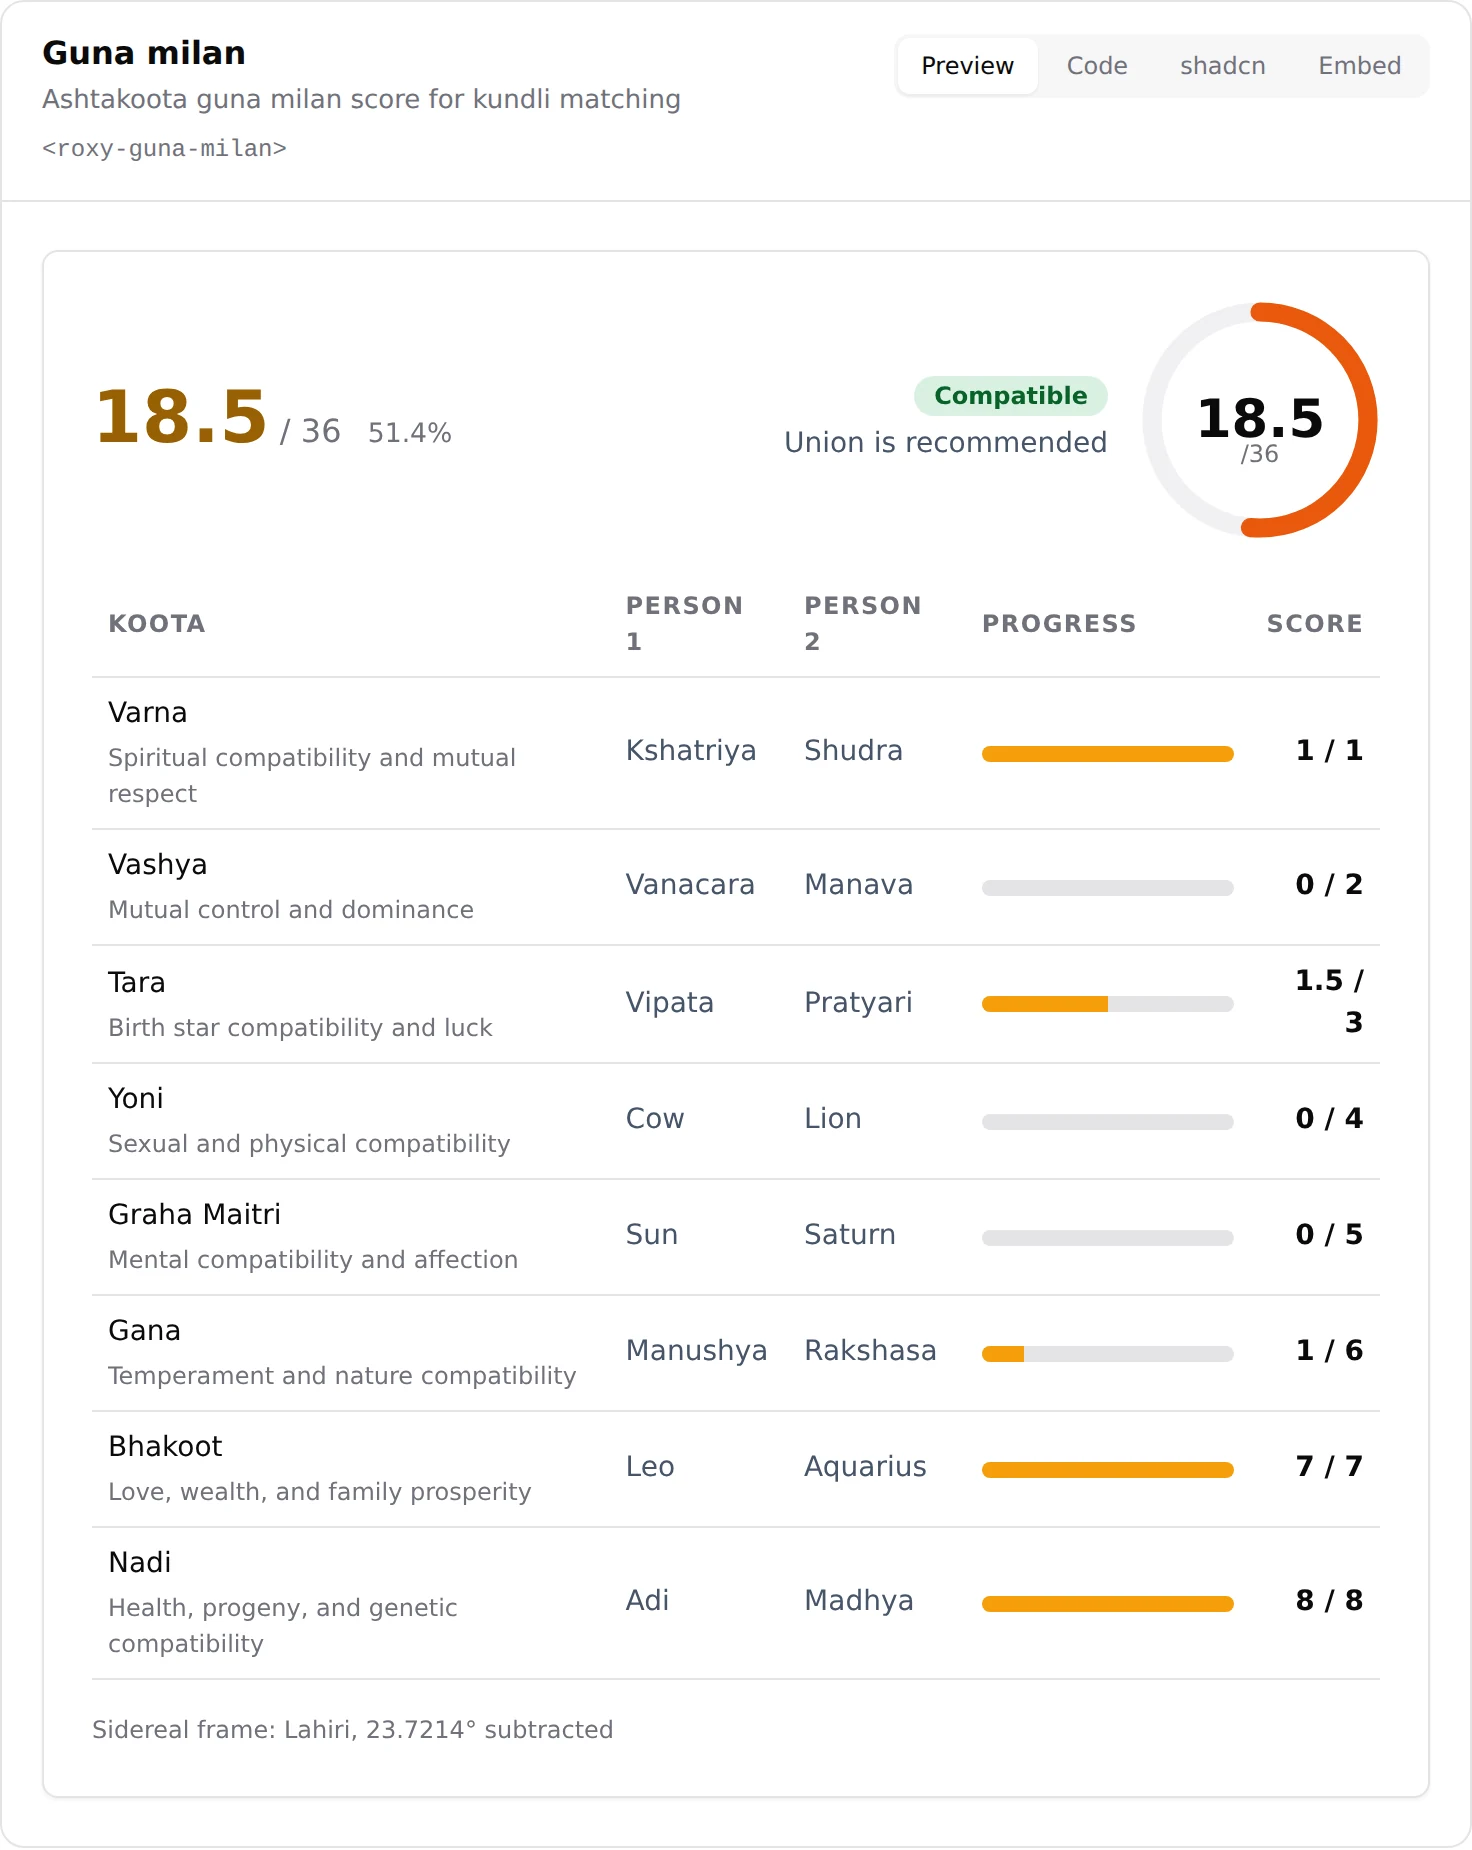
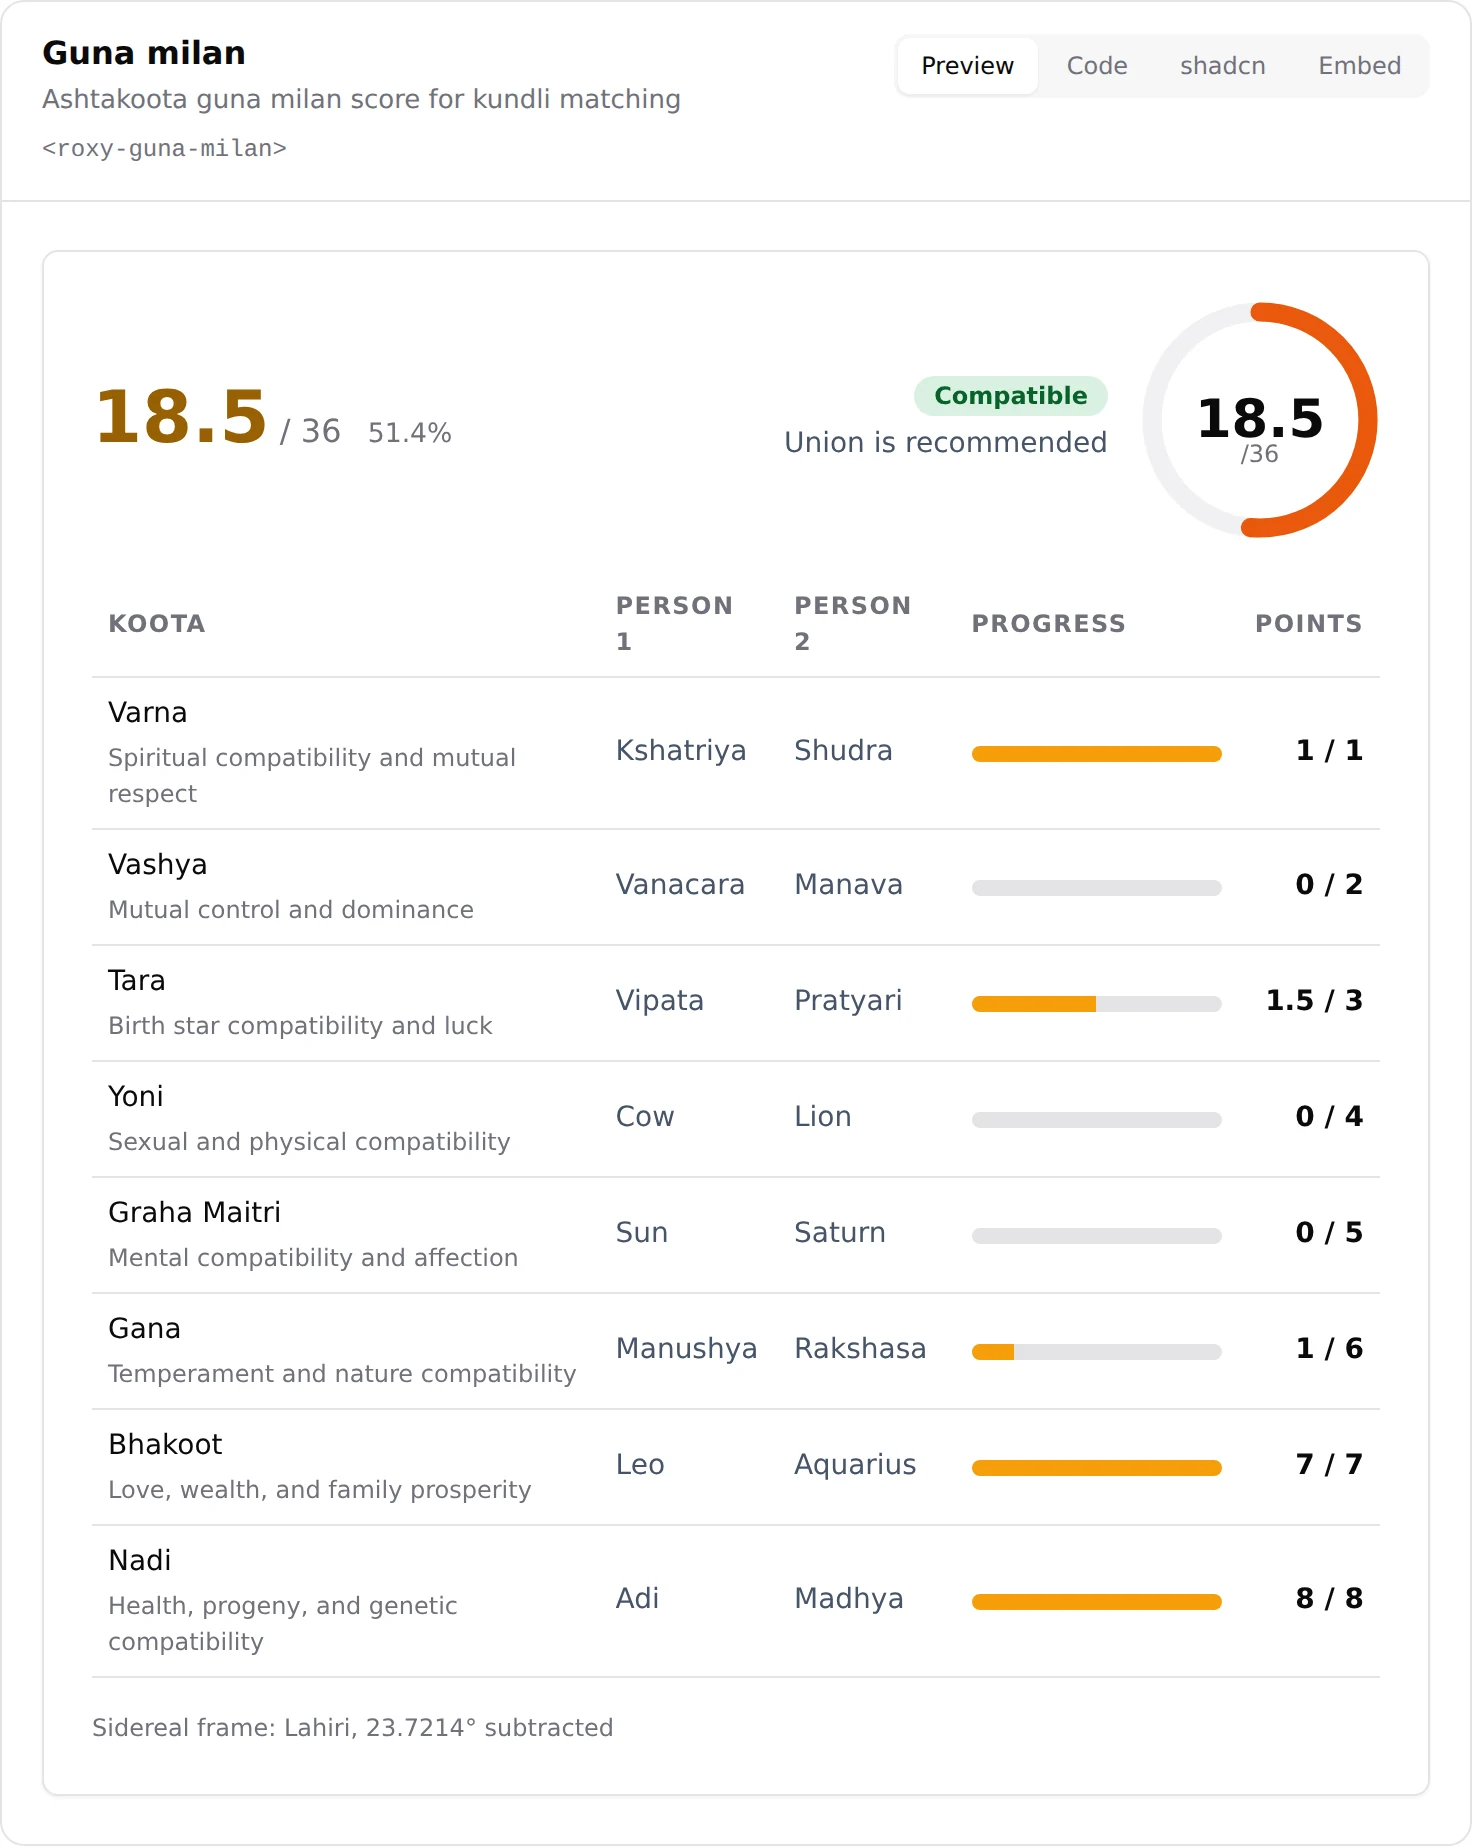
fix(kp-finance-card),i18n(score and points split,ru ruling planets,hi sookshma),docs(lessons,todo,ui-gaps): the time columns take Start and End, the weight goes through formatPercent, the window range through formatTimeRange and the retrograde flag is the mark with its accessible name; the Guna Mila

diff --git a/packages/ui/src/components/kp-finance-card.ts b/packages/ui/src/components/kp-finance-card.ts
@@ -9,7 +9,9 @@ import {
 	formatDateTime,
 	formatList,
 	formatNumber,
+	formatPercent,
 	formatTime,
+	formatTimeRange,
 } from '../utils/format.js';
 import { frameCaptionStyles, renderFrameCaption } from '../utils/frame.js';
 
@@ -410,7 +412,7 @@ export class RoxyKpFinanceCard extends RoxyDataElement<Finance> {
 		return html`<div class="block-head">
 				<h3>${this.t(LAYER_LABEL[key])}</h3>
 				<span class="evidence">
-					${this.t('Weight')} ${formatNumber(locale, layer.weight, 0)}% · ${this.t('Score')}
+					${this.t('Weight')} ${formatPercent(locale, layer.weight, 0)} · ${this.t('Score')}
 					${formatNumber(locale, layer.score, 1)}
 				</span>
 			</div>
@@ -451,8 +453,8 @@ export class RoxyKpFinanceCard extends RoxyDataElement<Finance> {
 				<tr>
 					<th scope="col">${this.t('Level')}</th>
 					<th scope="col">${this.t('Lord')}</th>
-					<th scope="col">${this.t('From')}</th>
-					<th scope="col">${this.t('To')}</th>
+					<th scope="col">${this.t('Start')}</th>
+					<th scope="col">${this.t('End')}</th>
 					<th scope="col">${this.t('Verdict')}</th>
 					<th scope="col">${this.t('Score')}</th>
 					<th scope="col">${this.t('Weight')}</th>
@@ -467,7 +469,7 @@ export class RoxyKpFinanceCard extends RoxyDataElement<Finance> {
 						<td>${formatDateTime(locale, r.endDate)}</td>
 						<td>${this.verdictChip(r.verdict)}</td>
 						<td class="num">${formatNumber(locale, r.score, 0)}</td>
-						<td class="num">${formatNumber(locale, r.weight, 0)}%</td>
+						<td class="num">${formatPercent(locale, r.weight, 0)}</td>
 					</tr>`,
 				)}
 			</tbody>
@@ -500,8 +502,8 @@ export class RoxyKpFinanceCard extends RoxyDataElement<Finance> {
 		return html`<table>
 			<thead>
 				<tr>
-					<th scope="col">${this.t('From')}</th>
-					<th scope="col">${this.t('To')}</th>
+					<th scope="col">${this.t('Start')}</th>
+					<th scope="col">${this.t('End')}</th>
 					<th scope="col">${this.t('Sub lord')}</th>
 					<th scope="col">${this.t('Verdict')}</th>
 					<th scope="col">${this.t('Score')}</th>
@@ -535,7 +537,7 @@ export class RoxyKpFinanceCard extends RoxyDataElement<Finance> {
 		const window = (w: WindowRow, kind: 'best' | 'worst') =>
 			html`<span class="window ${kind}">
 				<span>${this.glyphName(w.subLord)}</span>
-				<small>${formatTime(locale, w.from)} — ${formatTime(locale, w.to)}</small>
+				<small>${formatTimeRange(locale, { start: w.from, end: w.to })}</small>
 			</span>`;
 		return html`<section class="block" part="section windows">
 			<dl class="facts">
@@ -559,12 +561,17 @@ export class RoxyKpFinanceCard extends RoxyDataElement<Finance> {
 		</section>`;
 	}
 
-	/** A planet with its glyph in front, and the retrograde mark after it where the row says so. */
+	/**
+	 * A planet with its glyph in front, and the retrograde mark after it where the row says so.
+	 *
+	 * @remarks
+	 * The mark is the symbol the ephemeris and transit tables draw, with the catalogued word as its accessible name rather than printed: printed after a name, an adjective has to agree with that name in the languages that inflect it, and a symbol does not.
+	 */
 	private glyphName(name: string, retrograde = false) {
 		const glyph = planetGlyph(name);
 		return html`${glyph ? html`<span class="glyph" aria-hidden="true">${glyph}</span>` : nothing}${name}${
 			retrograde
-				? html` <span class="retro">${this.t('retrograde')}</span>`
+				? html` <span class="retro" aria-label=${this.t('retrograde')}>&#8478;</span>`
 				: nothing
 		}`;
 	}

diff --git a/packages/ui/tests/kp-finance-card.test.ts b/packages/ui/tests/kp-finance-card.test.ts
@@ -270,6 +270,11 @@ describe('the KP daily finance card renders the whole response', () => {
 			.querySelector('[part~="cusps"] .evidence')
 			?.textContent?.replace(/\s+/g, ' ');
 		expect(head).toContain('Weight 30%');
+		expect(
+			root(el)
+				.querySelector('[part~="dasha"] tbody tr td:last-child')
+				?.textContent?.trim(),
+		).toBe('10%');
 		expect(head).toContain('Score 60');
 	});
 
@@ -290,9 +295,11 @@ describe('the KP daily finance card renders the whole response', () => {
 			(r) => (r.textContent ?? '').replace(/\s+/g, ' ').trim(),
 		);
 		expect(rows[0]).toContain('Mahadasha');
-		expect(rows[0]).toContain('retrograde');
+		const marks = [
+			...root(el).querySelectorAll('[part~="dasha"] tbody tr'),
+		].map((r) => r.querySelector('.retro')?.getAttribute('aria-label') ?? null);
+		expect(marks).toEqual(['retrograde', null]);
 		expect(rows[1]).toContain('Sookshma');
-		expect(rows[1]).not.toContain('retrograde');
 	});
 
 	test('a Moon window is the wall clock of the request timezone, not the viewer', async () => {
@@ -313,6 +320,10 @@ describe('the KP daily finance card renders the whole response', () => {
 		expect(body).not.toContain('Best window');
 		expect(body).toContain('Worst windows');
 		expect(root(el).querySelectorAll('.window.worst').length).toBe(2);
+		// The range is the shared formatter's, never a hand-typed dash.
+		expect(
+			root(el).querySelector('.window.worst small')?.textContent?.trim(),
+		).toBe('2:22 AM - 3:53 AM');
 	});
 
 	test('a favourable window is lifted out of the table when the day has one', async () => {

diff --git a/packages/ui/src/locales/hi.ts b/packages/ui/src/locales/hi.ts
@@ -848,6 +848,7 @@ export const hi: Record<ChromeString, string> = {
 	'Worst windows': 'सबसे खराब अवधियाँ',
 	// The form group over the four layer weights, in the words the request field label prints.
 	Weights: 'परत भार',
+	Points: 'अंक',
 	'Energy {{value}}/10': 'ऊर्जा {{value}}/10',
 	'Energy {{value}} of 10': '10 में से ऊर्जा {{value}}',
 	Health: 'स्वास्थ्य',
@@ -898,7 +899,8 @@ export const hi: Record<ChromeString, string> = {
 	Mahadasha: 'महादशा',
 	Antardasha: 'अंतर्दशा',
 	Pratyantardasha: 'प्रत्यंतर्दशा',
-	Sookshma: 'सूक्ष्म',
+	// With दशा like its three siblings; bare सूक्ष्म is an adjective (subtle).
+	Sookshma: 'सूक्ष्म दशा',
 	Prana: 'प्राण',
 	'Dasha timeline': 'दशा कालक्रम',
 	Timeline: 'कालक्रम',

diff --git a/packages/ui/src/locales/ru.ts b/packages/ui/src/locales/ru.ts
@@ -1172,7 +1172,8 @@ export const ru: Record<ChromeString, string> = {
 	Gain: 'Прибыль',
 	Loss: 'Потери',
 	Cusps: 'Куспиды',
-	'Ruling planets': 'Управляющие планеты',
+	// The request form prints the same word for the layer weight, and `управляющие планеты` is what Russian copy calls the rulers of the SIGNS, two tables above a sign lord column.
+	'Ruling planets': 'Правящие планеты',
 	'Moon windows': 'Окна Луны',
 	'Sub lord': 'Суб-лорд',
 	'Star lord': 'Управитель звезды',
@@ -1184,6 +1185,7 @@ export const ru: Record<ChromeString, string> = {
 	'Worst windows': 'Худшие окна',
 	// The form group over the four layer weights, in the words the request field label prints.
 	Weights: 'Веса слоев',
+	Points: 'Баллы',
 };
 
 registerLocale('ru', ru);

diff --git a/packages/ui/src/locales/fr.ts b/packages/ui/src/locales/fr.ts
@@ -453,7 +453,8 @@ export const fr: Record<ChromeString, string> = {
 	'Guna Milan score': 'Score de Guna Milan',
 	Koota: 'Koota',
 	Progress: 'Progression',
-	Score: 'Points',
+	// The 0 to 100 rating a KP card prints; the koota tally is `Points`.
+	Score: 'Score',
 	'{{dosha}} cancelled': '{{dosha}} annulé',
 	'Moon phase calendar': 'Calendrier des phases lunaires',
 	'Current moon phase': 'Phase lunaire actuelle',
@@ -840,6 +841,7 @@ export const fr: Record<ChromeString, string> = {
 	'Worst windows': 'Pires fenêtres',
 	// The form group over the four layer weights, in the words the request field label prints.
 	Weights: 'Pondération des couches',
+	Points: 'Points',
 	'Energy {{value}}/10': 'Énergie {{value}}/10',
 	'Energy {{value}} of 10': 'Énergie {{value}} sur 10',
 	Health: 'Santé',

diff --git a/packages/ui/src/locales/es.ts b/packages/ui/src/locales/es.ts
@@ -462,7 +462,8 @@ export const es: Record<ChromeString, string> = {
 	'Guna Milan score': 'Puntuación de Guna Milan',
 	Koota: 'Koota',
 	Progress: 'Progreso',
-	Score: 'Puntos',
+	// The 0 to 100 rating a KP card prints; the koota tally is `Points`.
+	Score: 'Puntuación',
 	'{{dosha}} cancelled': '{{dosha}} cancelado',
 	'Moon phase calendar': 'Calendario de fases lunares',
 	'Current moon phase': 'Fase lunar actual',
@@ -848,6 +849,7 @@ export const es: Record<ChromeString, string> = {
 	'Worst windows': 'Peores ventanas',
 	// The form group over the four layer weights, in the words the request field label prints.
 	Weights: 'Ponderación de capas',
+	Points: 'Puntos',
 	'Energy {{value}}/10': 'Energía {{value}}/10',
 	'Energy {{value}} of 10': 'Energía {{value}} de 10',
 	Health: 'Salud',

diff --git a/packages/ui/src/locales/pt.ts b/packages/ui/src/locales/pt.ts
@@ -441,7 +441,8 @@ export const pt: Record<ChromeString, string> = {
 	'Guna Milan score': 'Pontuação de Guna Milan',
 	Koota: 'Koota',
 	Progress: 'Progresso',
-	Score: 'Pontos',
+	// The 0 to 100 rating a KP card prints; the koota tally is `Points`.
+	Score: 'Pontuação',
 	'{{dosha}} cancelled': '{{dosha}} cancelado',
 	'Moon phase calendar': 'Calendário das fases da lua',
 	'Current moon phase': 'Fase lunar atual',
@@ -827,6 +828,7 @@ export const pt: Record<ChromeString, string> = {
 	'Worst windows': 'Piores janelas',
 	// The form group over the four layer weights, in the words the request field label prints.
 	Weights: 'Pesos das camadas',
+	Points: 'Pontos',
 	'Energy {{value}}/10': 'Energia {{value}}/10',
 	'Energy {{value}} of 10': 'Energia {{value}} de 10',
 	Health: 'Saúde',

diff --git a/packages/ui/tests/i18n.test.ts b/packages/ui/tests/i18n.test.ts
@@ -1111,10 +1111,13 @@ describe('shipped locales', () => {
 				'Frictions',
 				'Interactions',
 				'Traits',
-				// The KP finance card: `Gain` and `Verdict` are the French words,
-				// spelled identically to the English.
+				// The KP finance card: `Gain`, `Verdict` and `Score` are the French
+				// words, spelled identically to the English (`Score de Guna Milan`
+				// and `Score combiné` already print the last).
 				'Gain',
 				'Verdict',
+				'Score',
+				'Points',
 			],
 			hi: ['ASC', 'ASC{{n}}', 'DSC', 'IC', 'MC', 'Vtx', '{{planet}} {{level}}'],
 			// The three Portuguese abbreviations truncate `Cardinal`, `Fixo` and

diff --git a/packages/ui/src/i18n/chrome-strings.ts b/packages/ui/src/i18n/chrome-strings.ts
@@ -1363,6 +1363,10 @@ export const CHROME_STRINGS = [
 	// The form group over the four layer weights of that request, a tenth
 	// object-valued body property beside `Domain Weights`.
 	'Weights',
+	// The Guna Milan koota column, a tally of points out of a maximum. `Score`
+	// is the 0 to 100 rating a KP card prints, and the two are different nouns
+	// in Spanish, Portuguese and French.
+	'Points',
 ] as const;
 
 /** One of the English source strings a shipped catalogue must translate. */

diff --git a/packages/ui/src/components/guna-milan.ts b/packages/ui/src/components/guna-milan.ts
@@ -334,7 +334,7 @@ export class RoxyGunaMilan extends RoxyDataElement<CompatibilityResponse> {
 								<th scope="col">${this.t('Person 1')}</th>
 								<th scope="col">${this.t('Person 2')}</th>
 								<th scope="col" class="bar-col">${this.t('Progress')}</th>
-								<th scope="col" class="score">${this.t('Score')}</th>
+								<th scope="col" class="score">${this.t('Points')}</th>
 							</tr>
 						</thead>
 						<tbody>

diff --git a/packages/ui/src/locales/de.ts b/packages/ui/src/locales/de.ts
@@ -835,6 +835,7 @@ export const de: Record<ChromeString, string> = {
 	'Worst windows': 'Schlechteste Zeitfenster',
 	// The form group over the four layer weights, in the words the request field label prints.
 	Weights: 'Gewichtung der Ebenen',
+	Points: 'Punkte',
 
 	'Energy {{value}}/10': 'Energie {{value}}/10',
 	'Energy {{value}} of 10': 'Energie {{value}} von 10',

diff --git a/packages/ui/src/locales/tr.ts b/packages/ui/src/locales/tr.ts
@@ -837,6 +837,7 @@ export const tr: Record<ChromeString, string> = {
 	'Worst windows': 'En kötü pencereler',
 	// The form group over the four layer weights, in the words the request field label prints.
 	Weights: 'Katman ağırlıkları',
+	Points: 'Puan',
 
 	'Energy {{value}}/10': 'Enerji {{value}}/10',
 	'Energy {{value}} of 10': '10 üzerinden {{value}} enerji',
